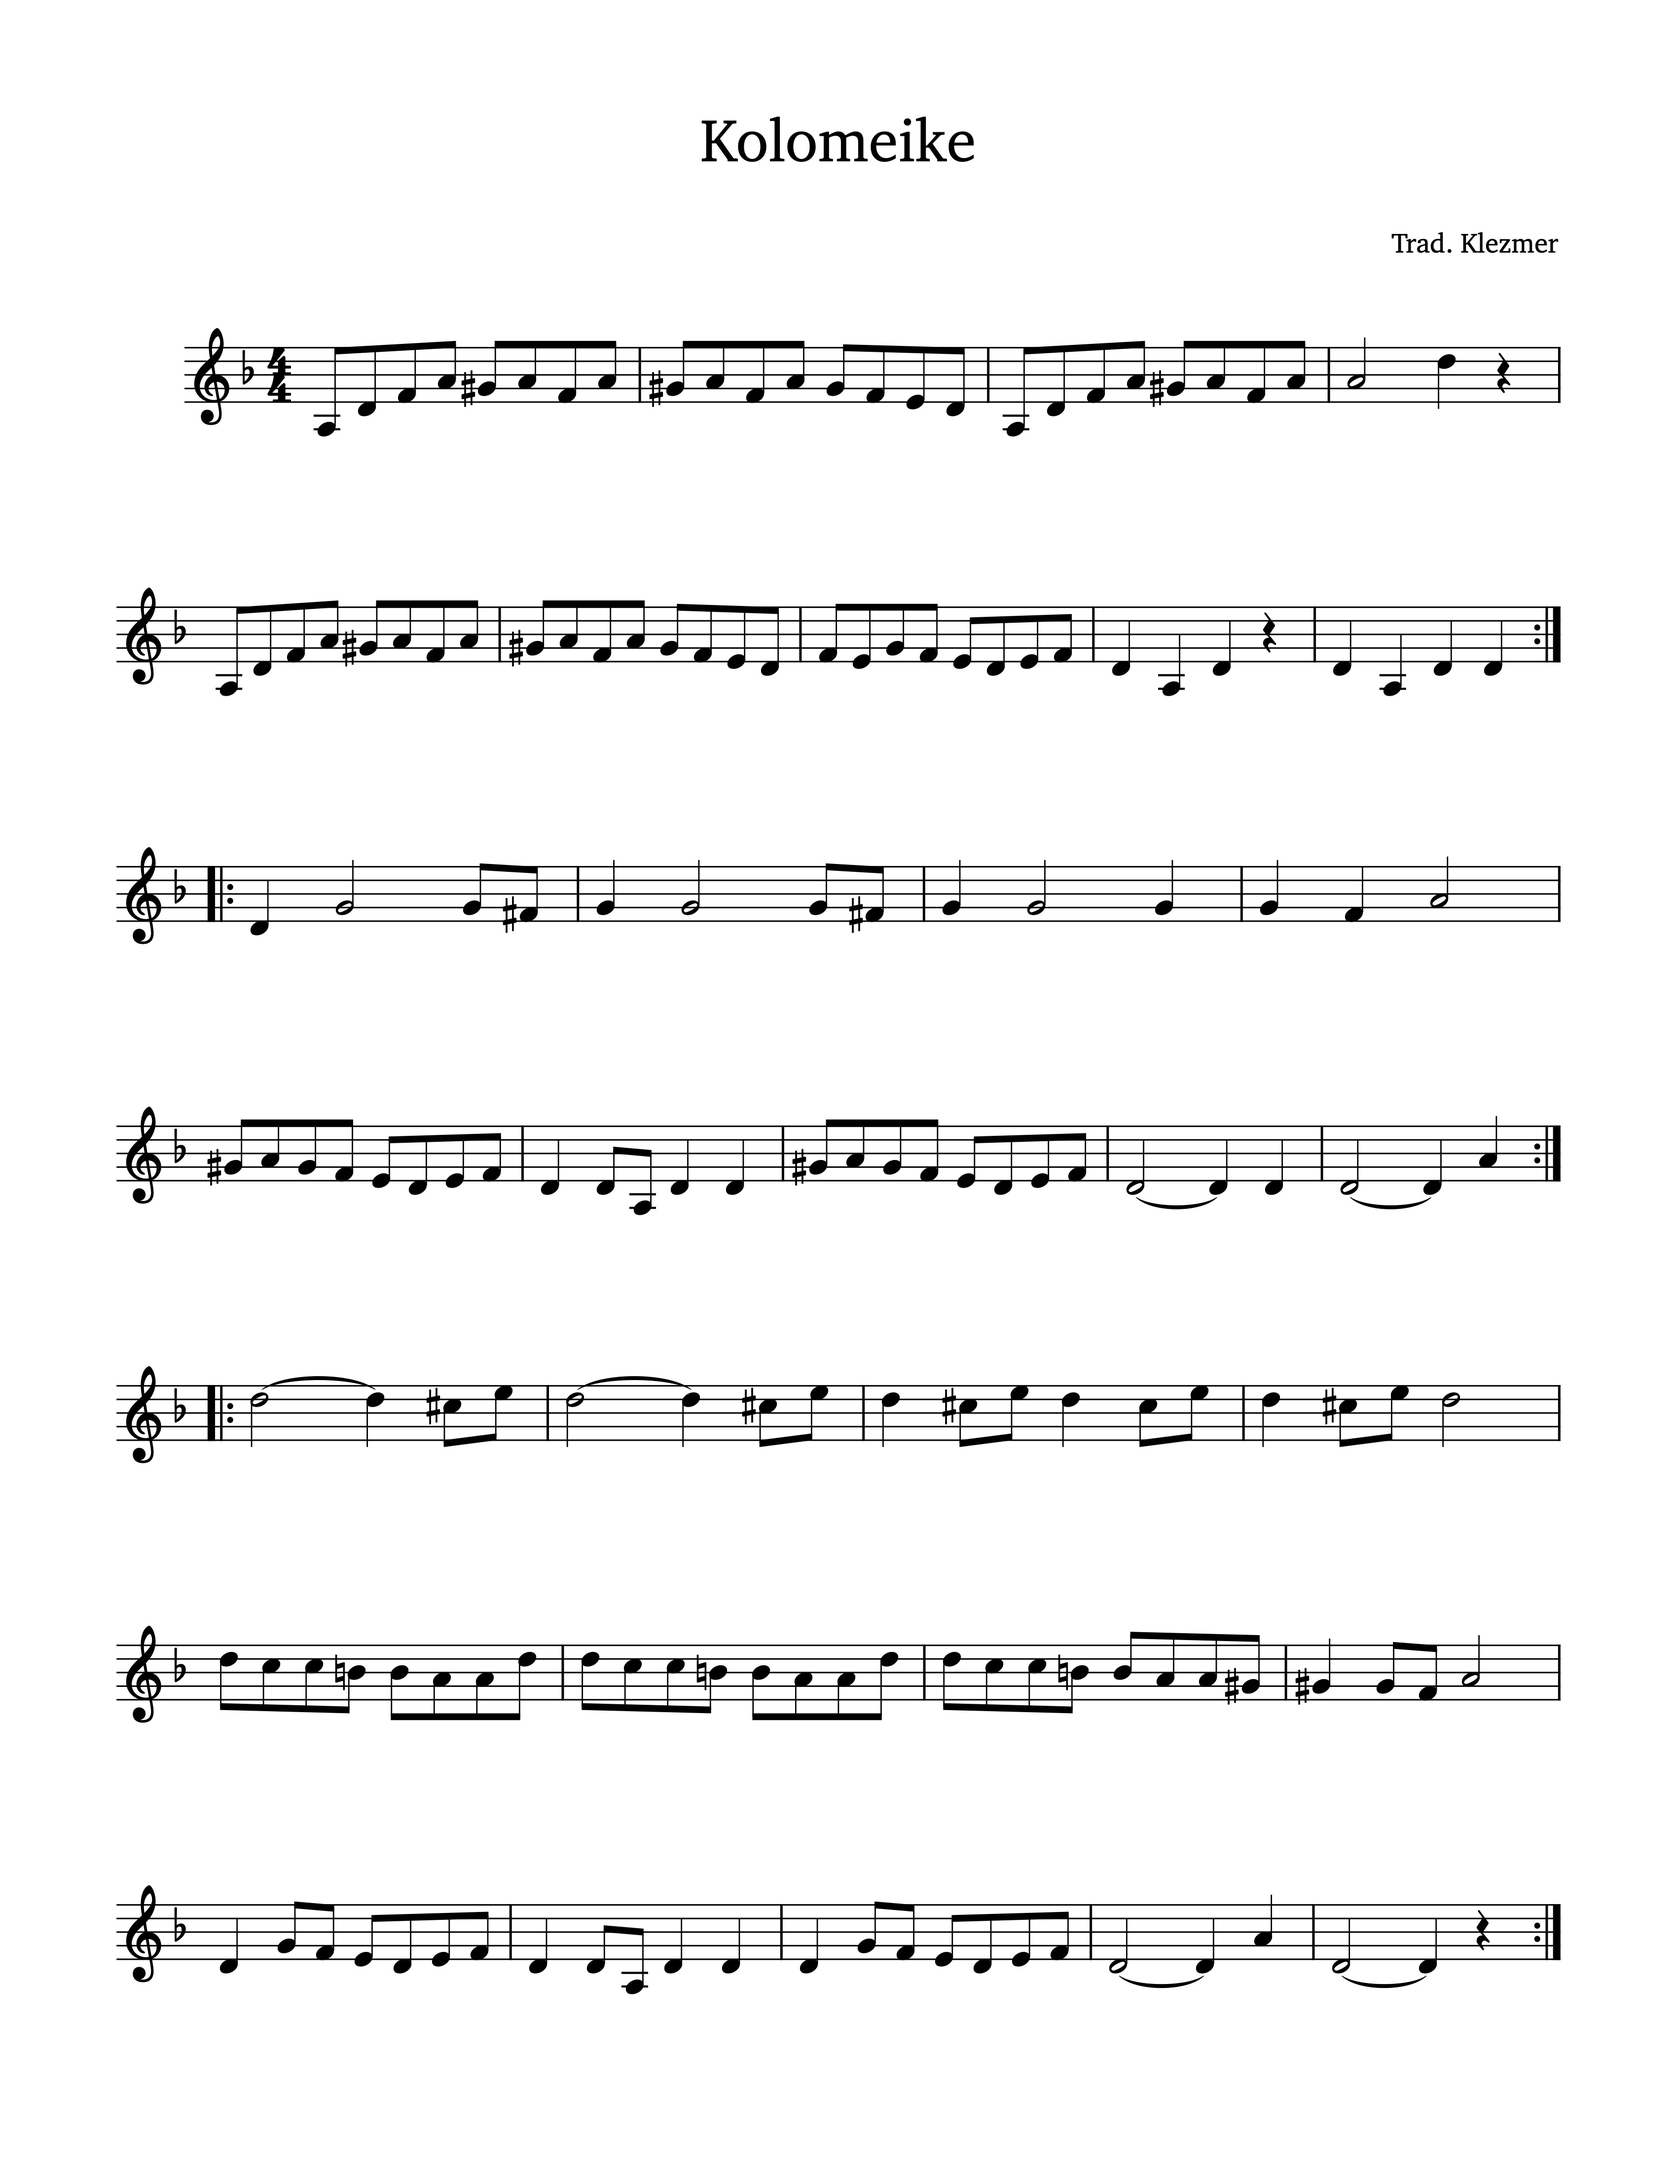
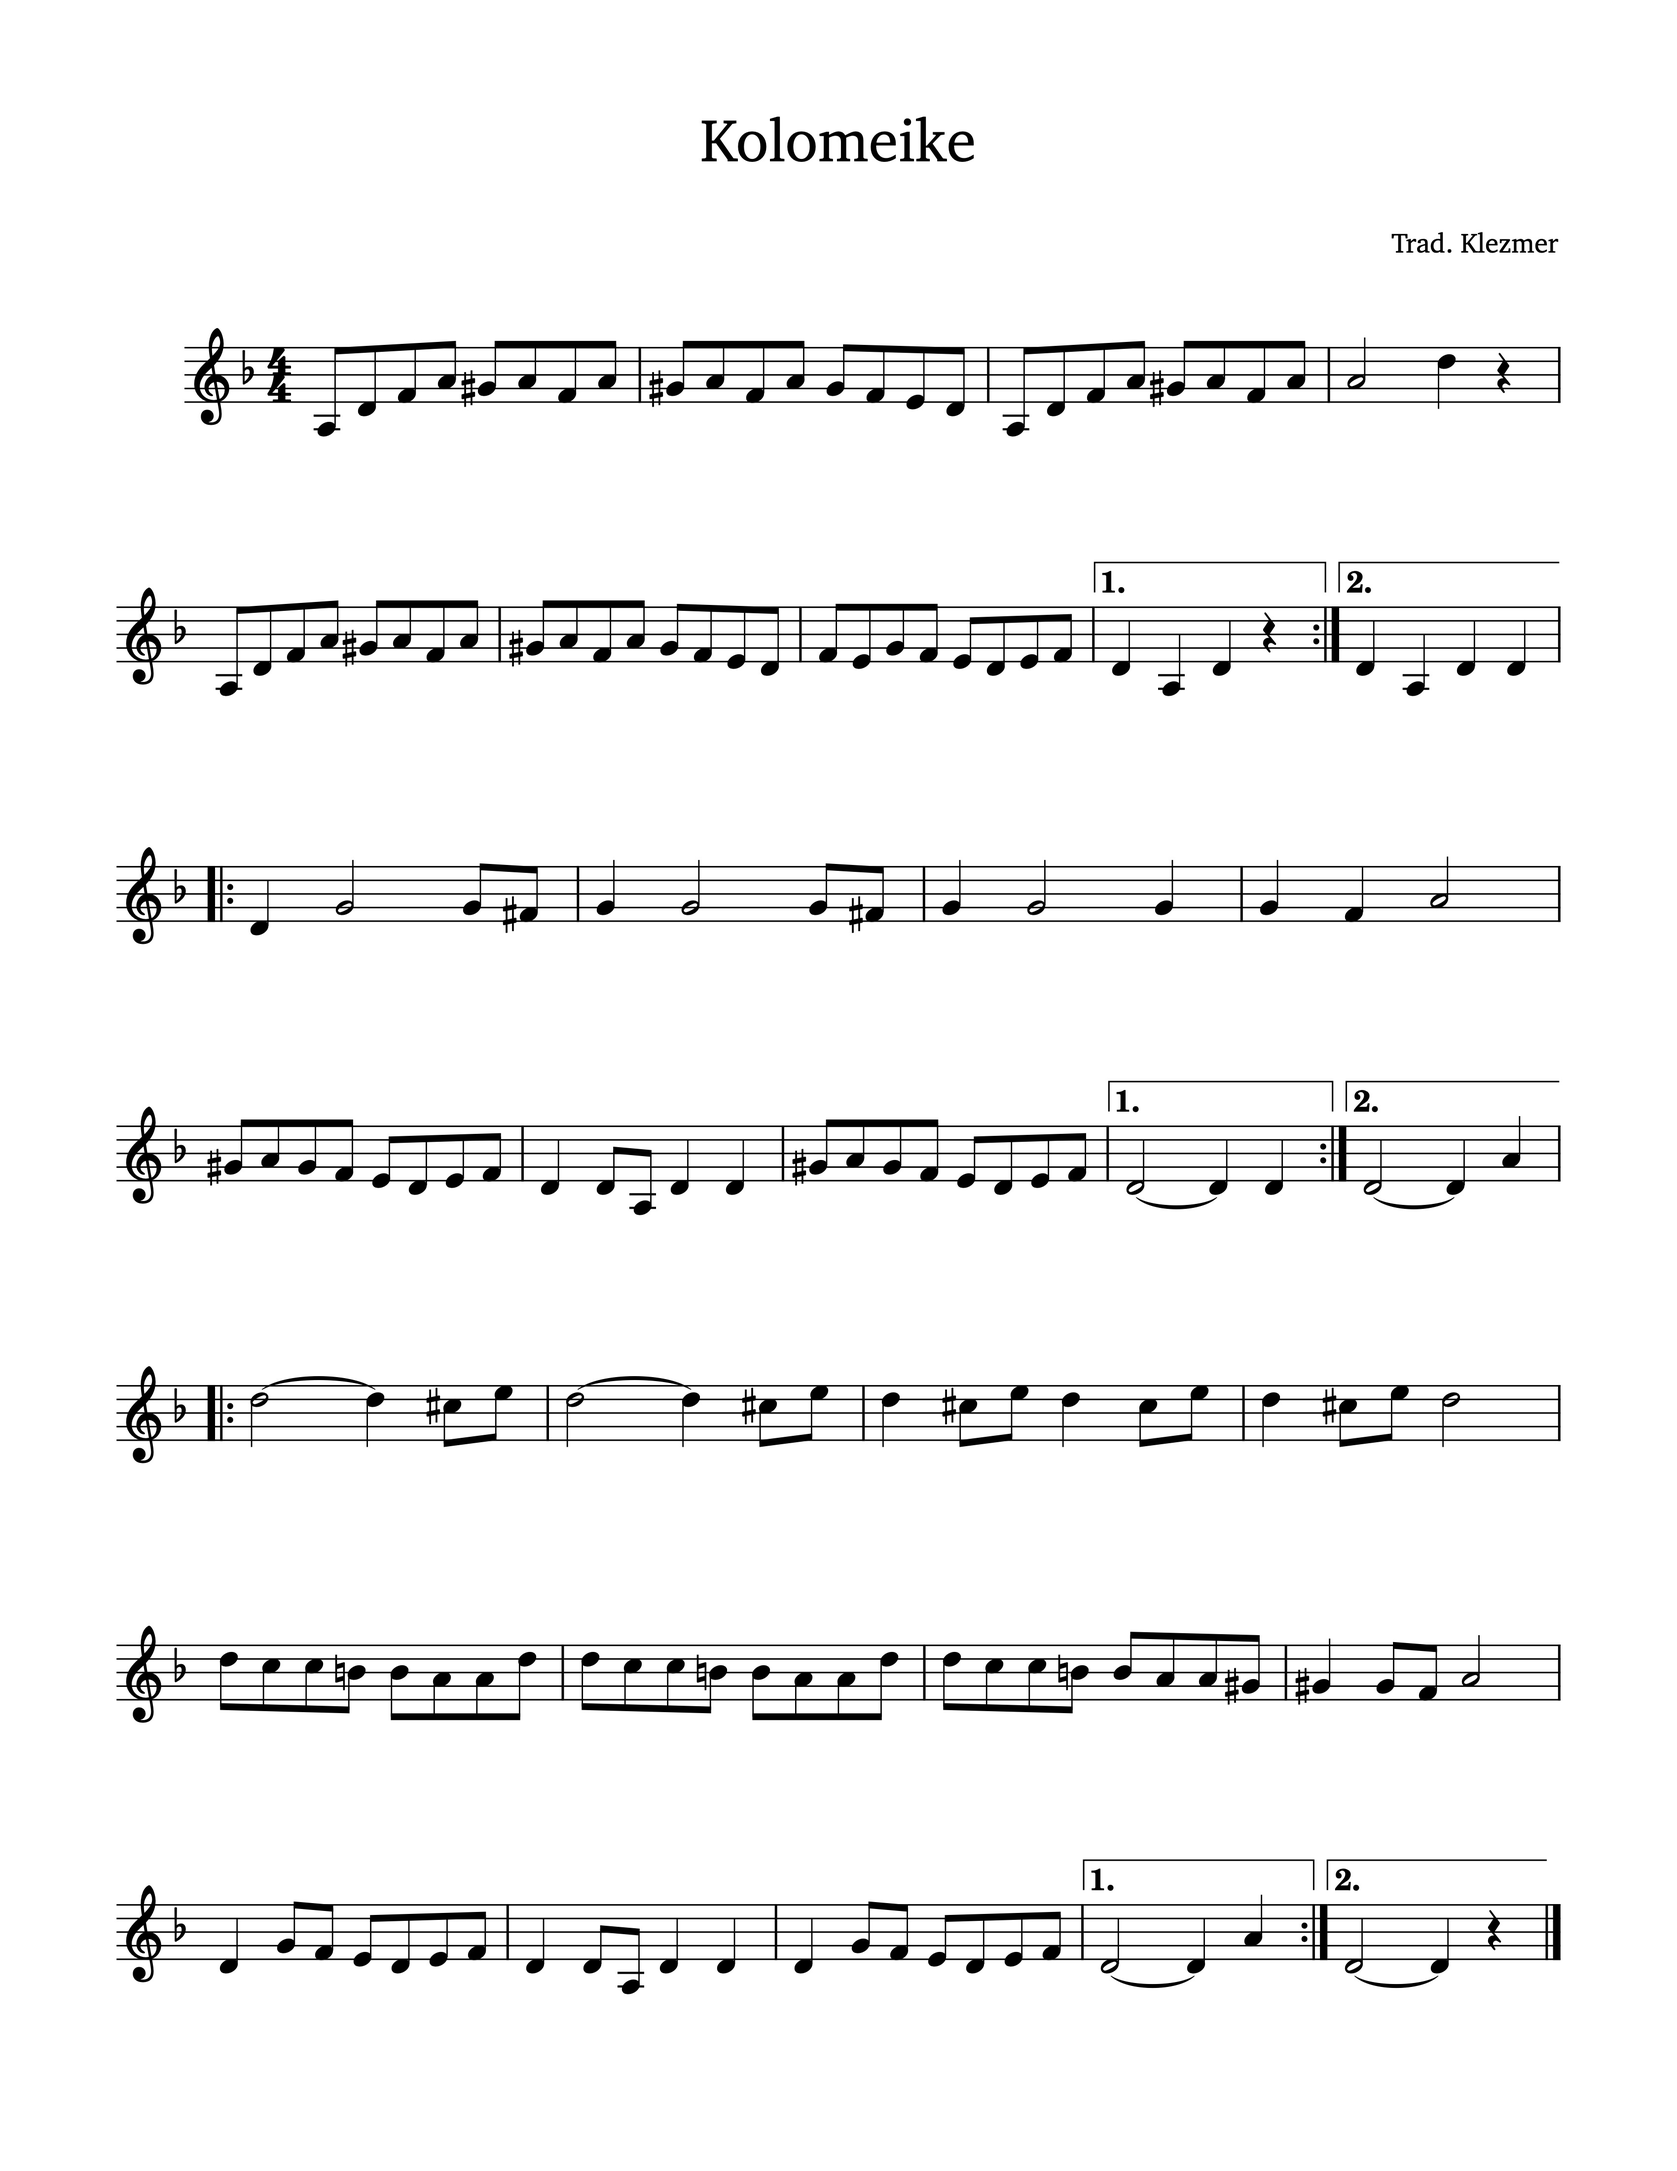
Added new tune of the week with chords, added corrected version of kolomeike from last week

diff --git a/Tunes/trip-to-herves.html b/Tunes/trip-to-herves.html
@@ -1,0 +1,96 @@
+<!DOCTYPE html>
+<html lang="en">
+  <head>
+    <meta charset="UTF-8" />
+    <meta http-equiv="X-UA-Compatible" content="IE=edge" />
+    <meta name="viewport" content="width=device-width, initial-scale=1.0" />
+    <title>Trip To Herve's</title>
+    <link rel="stylesheet" href="../styles/styles.css" />
+    <link rel="preconnect" href="https://fonts.googleapis.com" />
+    <link rel="preconnect" href="https://fonts.gstatic.com" crossorigin />
+    <link
+      href="https://fonts.googleapis.com/css2?family=Economica:wght@700&display=swap"
+      rel="stylesheet"
+    />
+  </head>
+  <body>
+    <header class="header-tunes">
+      <div class="title">
+        <h1 class="title-text">
+          <a href="../index.html">Whangarei Tunes</a>
+        </h1>
+      </div>
+      <ul class="nav">
+        <li class="nav-item">
+          <a class="nav-name" href="../tunes.html">Tunes</a>
+          <div class="dropdown-menu">
+            <ul class="dropdown">
+              <li class="dropdown-item">
+                <a href="../sessionClass.html">Session Class</a>
+              </li>
+              <li class="dropdown-item">
+                <a href="../fridayTunes.html">Friday Tunes</a>
+              </li>
+            </ul>
+          </div>
+        </li>
+        <li class="nav-item">
+          <a class="nav-name" href="../resources.html">Resources</a>
+        </li>
+        <!-- <li class="nav-item">
+          <a class="nav-name" href="../articles.html">Articles</a>
+        </li> -->
+        <li class="nav-item">
+          <a class="nav-name" href="../chords.html">Chords</a>
+        </li>
+        <li class="nav-item">
+          <a
+            href="https://www.facebook.com/groups/whangareifolkrootstraditionalmusic"
+            target="_blank"
+            ><img
+              src="../images/facebook.png"
+              alt="facebook logo"
+              width="17"
+              height="17"
+          /></a>
+        </li>
+      </ul>
+    </header>
+    <!-- <div class="tuneDescription text">
+      <p></p>
+    </div> -->
+    <div class="sheetMusicContainer">
+      <p class="text">
+        This tune is originally played in the key of F, but I've put it in D
+        here as it's a much more common/likely key.
+      </p>
+      <img
+        class="img-tune"
+        src="../musicFiles/trip-to-herves.jpg"
+        alt="Sheet music"
+      />
+    </div>
+    <div class="sheetMusicContainer">
+      <p class="text">
+        And if you have a low F whistle, here it is the original key!
+      </p>
+      <img
+        class="img-tune"
+        src="../musicFiles/trip-to-herves-F.jpg"
+        alt="Sheet music"
+      />
+    </div>
+    <div class="musicPlayer">
+      <iframe
+        style="border-radius: 12px"
+        src="https://open.spotify.com/embed/track/6KrCFSoNRLZGbyhtWc5C6b?utm_source=generator"
+        width="100%"
+        height="352"
+        frameborder="0"
+        allowfullscreen=""
+        allow="autoplay; clipboard-write; encrypted-media; fullscreen; picture-in-picture"
+        loading="lazy"
+      ></iframe>
+    </div>
+  </body>
+</html>

diff --git a/musicFiles/chords/trip-to-herves-chords.html b/musicFiles/chords/trip-to-herves-chords.html
@@ -1,0 +1,68 @@
+<!DOCTYPE html>
+<html lang="en">
+  <head>
+    <meta charset="UTF-8" />
+    <meta http-equiv="X-UA-Compatible" content="IE=edge" />
+    <meta name="viewport" content="width=device-width, initial-scale=1.0" />
+    <title>Trip To Herve's</title>
+    <link rel="stylesheet" href="../.././styles/styles.css" />
+    <link rel="preconnect" href="https://fonts.googleapis.com" />
+    <link rel="preconnect" href="https://fonts.gstatic.com" crossorigin />
+    <link
+      href="https://fonts.googleapis.com/css2?family=Economica:wght@700&display=swap"
+      rel="stylesheet"
+    />
+  </head>
+  <body>
+    <header class="header-tunes">
+      <div class="title">
+        <h1 class="title-text">
+          <a href="../.././index.html">Whangarei Tunes</a>
+        </h1>
+      </div>
+      <ul class="nav">
+        <li class="nav-item">
+          <a class="nav-name" href="../.././tunes.html">Tunes</a>
+          <div class="dropdown-menu">
+            <ul class="dropdown">
+              <li class="dropdown-item">
+                <a href="../.././sessionClass.html">Session Class</a>
+              </li>
+              <li class="dropdown-item">
+                <a href="../.././fridayTunes.html">Friday Tunes</a>
+              </li>
+            </ul>
+          </div>
+        </li>
+        <li class="nav-item">
+          <a class="nav-name" href="../.././resources.html">Resources</a>
+        </li>
+        <!-- <li class="nav-item">
+          <a class="nav-name" href="../.././articles.html">Articles</a>
+        </li> -->
+        <li class="nav-item">
+          <a class="nav-name" href="../.././chords.html">Chords</a>
+        </li>
+        <li class="nav-item">
+          <a
+            href="https://www.facebook.com/groups/whangareifolkrootstraditionalmusic"
+            target="_blank"
+            ><img
+              src="../.././images/facebook.png"
+              alt="facebook logo"
+              width="17"
+              height="17"
+          /></a>
+        </li>
+      </ul>
+    </header>
+    </div>
+    <div class="sheetMusicContainer">
+      <img
+        class="img-tune"
+        src="../.././musicFiles/chords/chord-page/trip-to-herves-chords.jpg"
+        alt="Sheet music"
+      />
+    </div>
+  </body>
+</html>

diff --git a/sessionClass.html b/sessionClass.html
@@ -92,12 +92,11 @@
       <div class="tunes-week tunes-container">
         <h3 class="centered-content sub-heading">Tune of the week:</h3>
         <p class="tune-name">
-          <a href="Tunes/tom-billys.html">Tom Billy's</a>,
-          <a href="https://thesession.org/tunes/1447">Whelan's</a>
+          <a href="Tunes/kolomeike.html">Kolomeike</a>
         </p>
         <h3 class="centered-content sub-heading">Up Next:</h3>
         <p class="tune-name">
-          <a href="Tunes/kolomeike.html">Kolomeike</a>
+          <a href="Tunes/trip-to-herves.html">Trip to Herve's</a>
         </p>
       </div>
       <div>
@@ -574,6 +573,10 @@
             >: Polka, A
           </li>
           <li class="tune-name">
+            <a href="Tunes/tom-billys.html">Tom Billy's</a>:
+            Jig, A mix
+          </li>
+          <li class="tune-name">
             <a
               href="https://irish.session.nz/tunes-archive/tripping-up-the-stairs/"
               target="_blank"
@@ -587,6 +590,10 @@
             <a href="https://thesession.org/tunes/14425" target="_blank"
               >Vals Efter Lasse I Lyby</a
             >: Waltz, Am
+          </li>
+          <li class="tune-name">
+            <a href="https://thesession.org/tunes/1447">Whelan's</a>:
+            Jig, Em
           </li>
           <li class="tune-name">
             <a href="./Tunes/white-petticoat.html">The White Petticoat</a>: Jig,

diff --git a/chords.html b/chords.html
@@ -409,6 +409,11 @@
             >: Jig, A mix
           </li>
           <li class="tune-name">
+            <a href="./musicFiles/chords/trip-to-herves-chords.html"
+              >Trip To Herve's</a
+            >: Reel, D
+          </li>
+          <li class="tune-name">
             <a href="./musicFiles/chords/tripping-up-the-stairs.html"
               >Tripping Up The Stairs</a
             >: Jig, D
